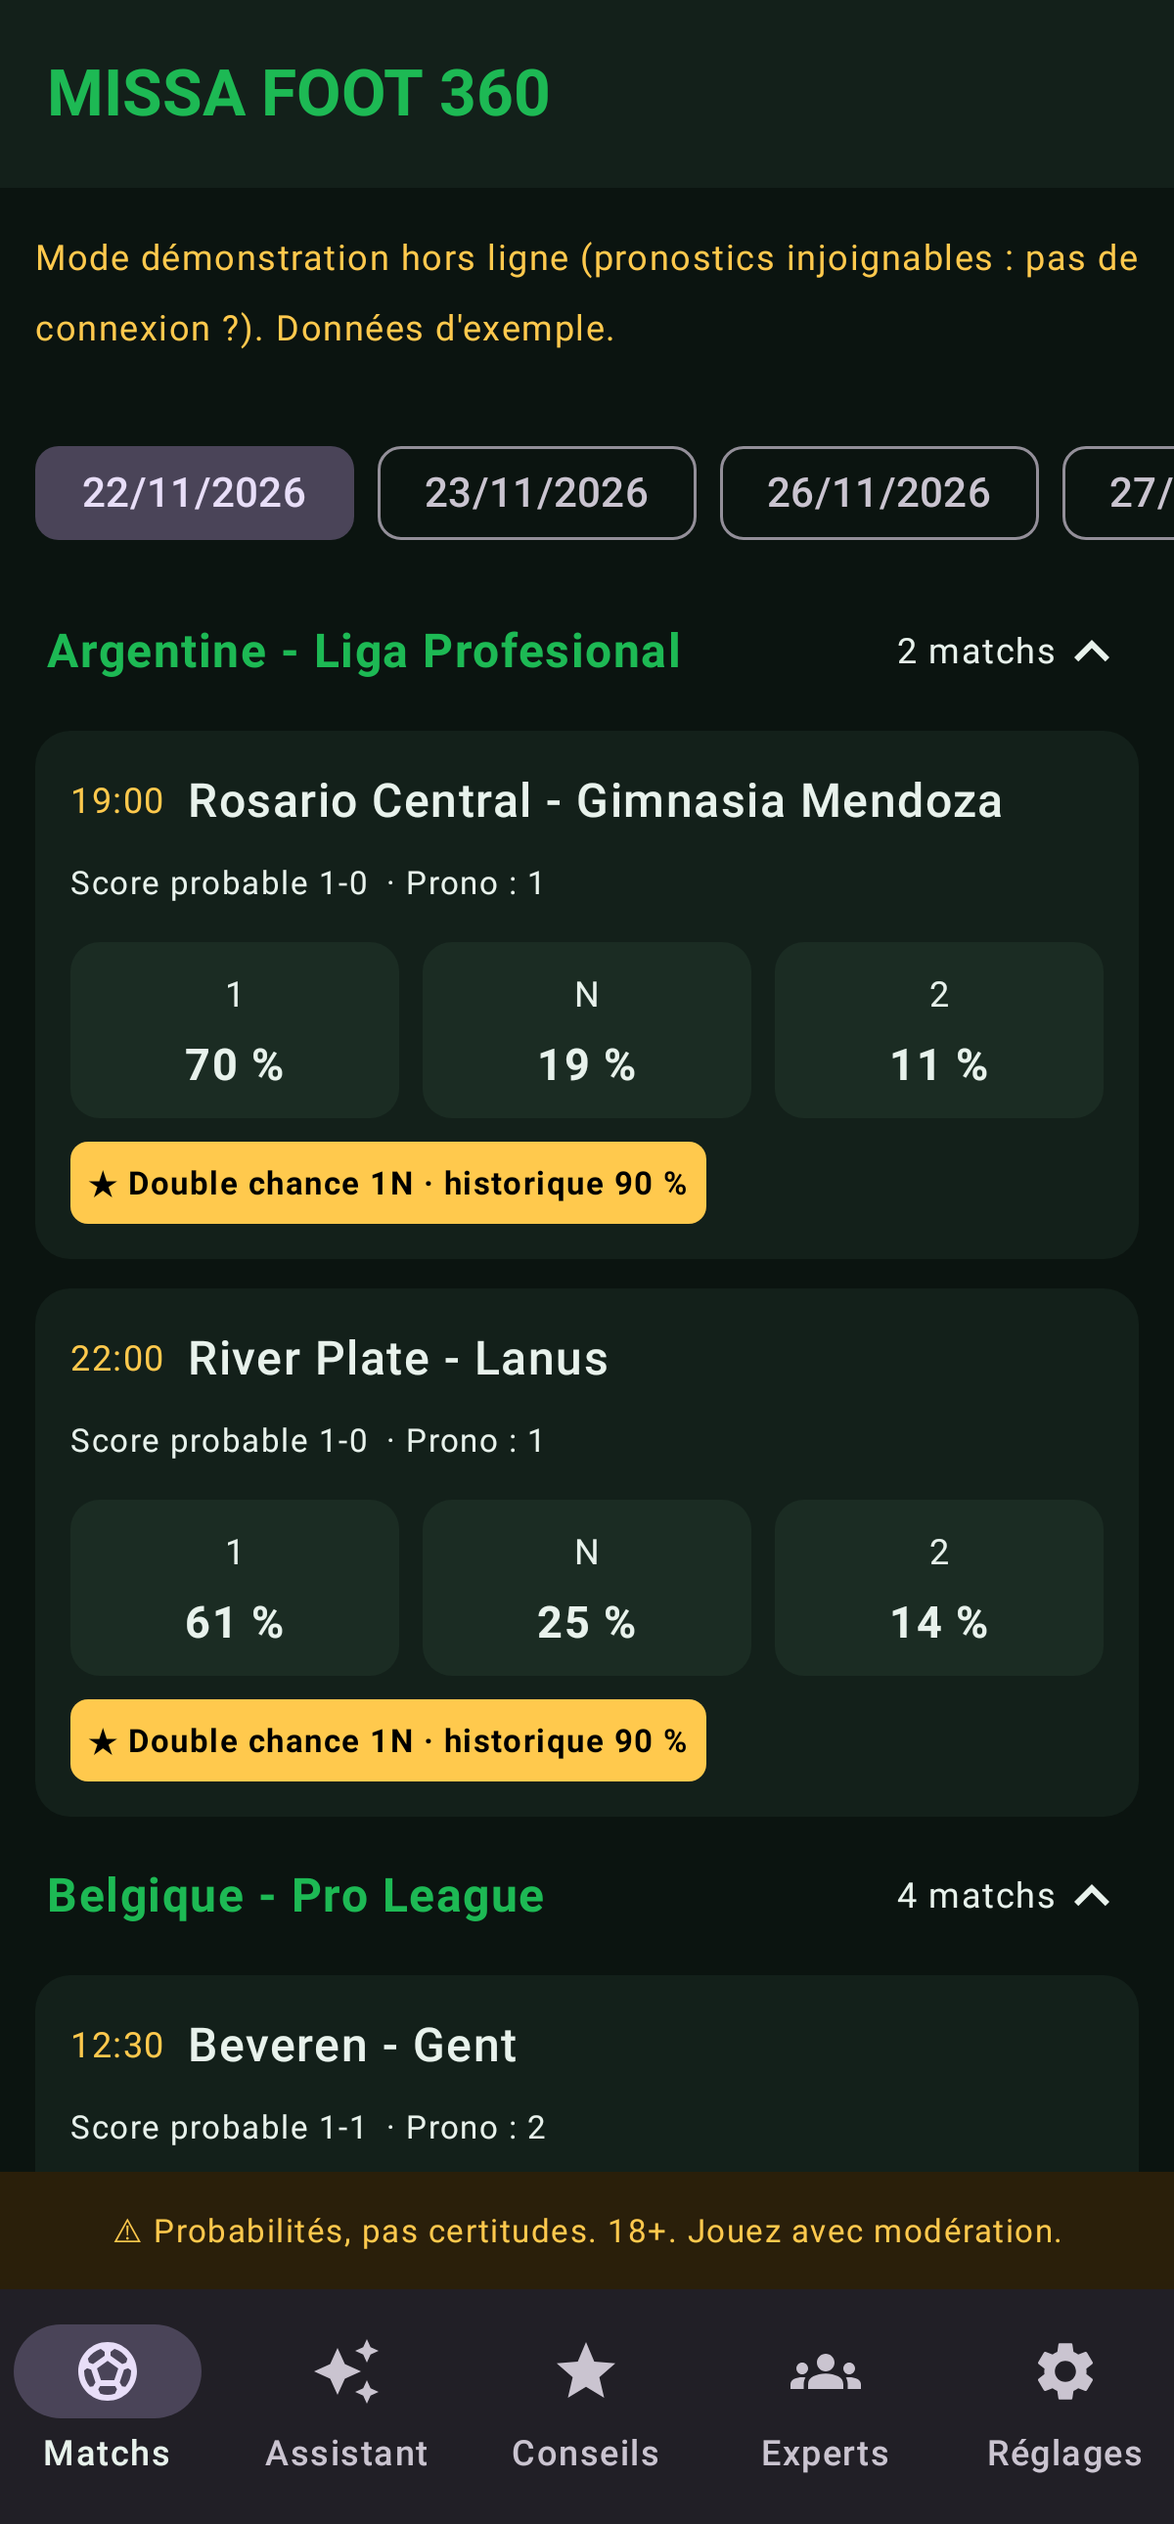
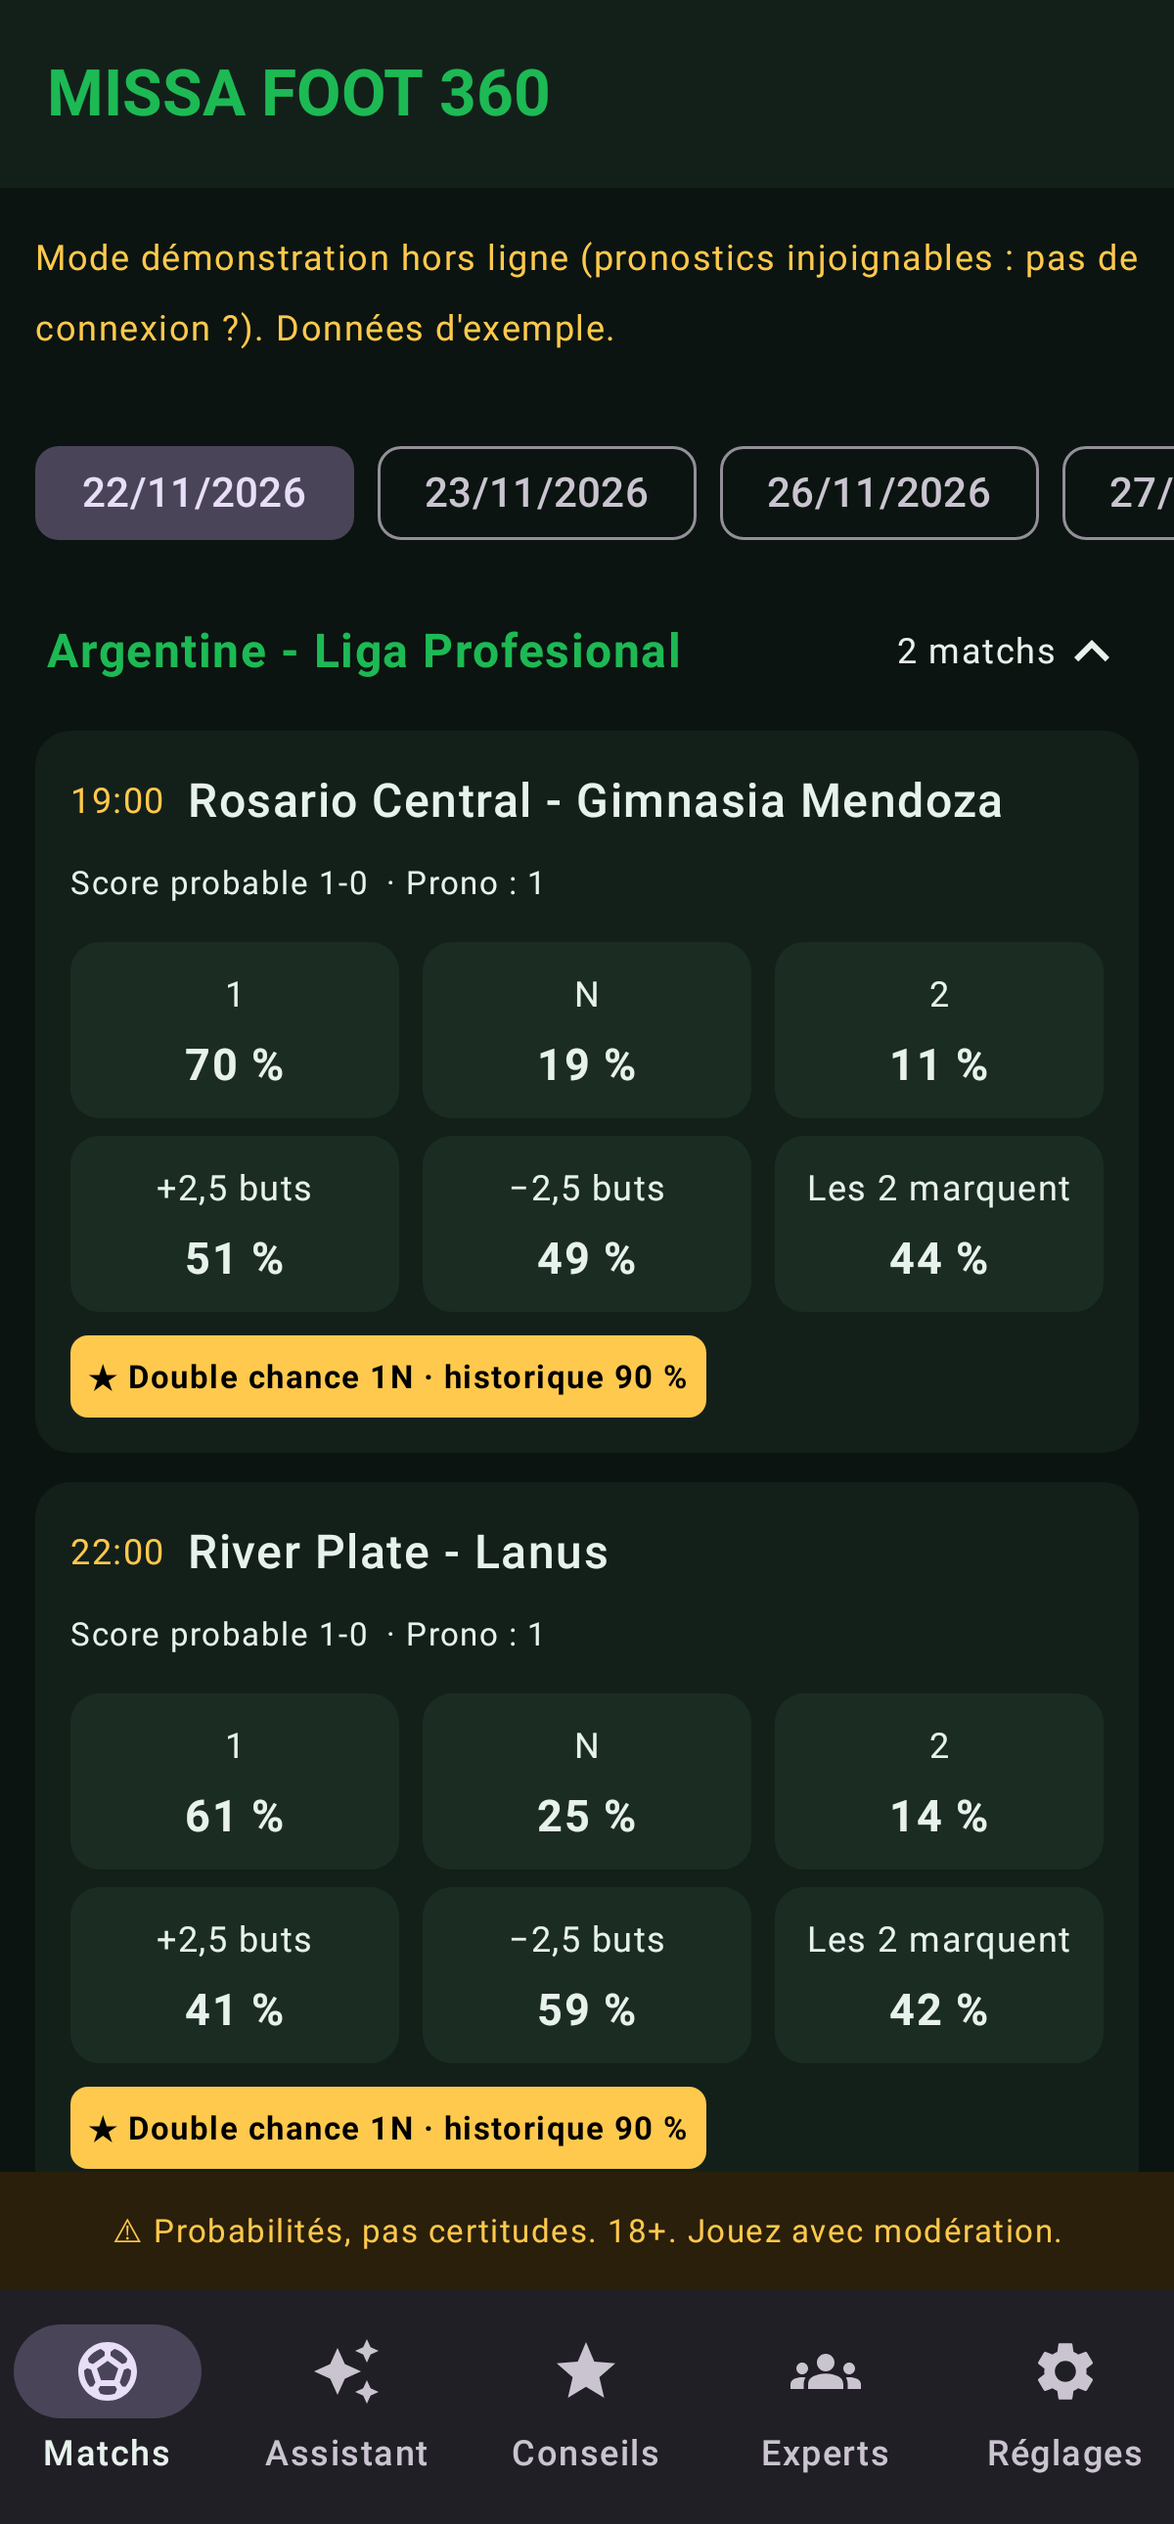
Ticket en temps réel : choix rapides (+2,5 / −2,5 / les 2 marquent) sur chaque match, cotes préremplies, mise et gains, résumé du ticket en haut
Claude-Session: https://claude.ai/code/session_01JzZ5bfRfBm6NJrwqaGBrNM

diff --git a/android/app/src/main/java/com/missa/foot360/ui/EcranCombi.kt b/android/app/src/main/java/com/missa/foot360/ui/EcranCombi.kt
@@ -48,7 +48,9 @@ fun BarreCombi(etat: EtatApp, ouvrir: () -> Unit) {
             Text((if (etat.unParMatch) "Ticket" else "Combiné libre") + " : ${etat.combi.size} sélection(s)", fontSize = 12.sp)
             if (r.proba == 0.0) Text("Sélections incompatibles (probabilité nulle)",
                 fontWeight = FontWeight.Bold, color = Rouge)
-            else Text("Probabilité ${pct(r.proba, 2)}  ·  cote juste ${cote(r.coteJuste)}",
+            else Text("Réussite ${pct(r.proba, 1)}  ·  " +
+                (r.coteBookmaker?.let { c -> "cote ${cote(c)}" + (etat.mise?.let { m -> " · gain ${montant(m * c * (1 + etat.bonus))}" } ?: "") }
+                    ?: "cote juste ${cote(r.coteJuste)}"),
                 fontWeight = FontWeight.Bold, color = Vert)
         }
         Text("Voir ›", color = Or)
@@ -61,12 +63,54 @@ fun EcranCombi(etat: EtatApp, vm: AppViewModel) {
     LazyColumn(contentPadding = PaddingValues(16.dp)) {
         item {
             Text(if (etat.unParMatch) "Mon ticket" else "Mon combiné (analyse libre)", fontSize = 20.sp, fontWeight = FontWeight.Bold)
-            Spacer(Modifier.height(4.dp))
-            Text("La probabilité est recalculée à chaque modification. Saisissez la cote de votre " +
-                "bookmaker pour voir la valeur du combiné.", fontSize = 12.sp)
-            Spacer(Modifier.height(12.dp))
+            Spacer(Modifier.height(8.dp))
         }
         if (etat.combi.isEmpty()) item { Text("Aucune sélection. Touchez un pronostic pour l'ajouter.") }
+        // --- Résumé en haut : visible immédiatement, mis à jour en temps réel ---
+        if (r != null) item {
+            Card(Modifier.fillMaxWidth()) {
+                Column(Modifier.padding(16.dp), verticalArrangement = Arrangement.spacedBy(6.dp)) {
+                    Row(verticalAlignment = Alignment.CenterVertically) {
+                        Text("Chances de réussite", Modifier.weight(1f), fontWeight = FontWeight.Bold)
+                        Text(pct(r.proba, 1), fontSize = 26.sp, fontWeight = FontWeight.Bold,
+                            color = if (r.proba >= 0.5) Vert else if (r.proba >= 0.2) Or else Rouge)
+                    }
+                    BarreProba(r.proba)
+                    Text("Sur 100 tickets identiques, environ ${"%.0f".format(r.proba * 100)} seraient gagnants.", fontSize = 12.sp)
+                    Ligne("Cote totale du ticket", cote(r.coteBookmaker))
+                    Ligne("Cote juste (équitable)", cote(r.coteJuste))
+                    val manquantes = etat.combi.count { it.cote == null }
+                    if (manquantes > 0) Text("$manquantes cote(s) à saisir pour calculer la cote totale et les gains.",
+                        fontSize = 12.sp, color = Or)
+                    var mise by remember { mutableStateOf(etat.mise?.let { "%.0f".format(it) } ?: "") }
+                    OutlinedTextField(
+                        value = mise, singleLine = true, modifier = Modifier.fillMaxWidth(),
+                        label = { Text("Mise") },
+                        keyboardOptions = KeyboardOptions(keyboardType = KeyboardType.Decimal),
+                        onValueChange = { mise = it; vm.modifierMise(it.replace(',', '.').toDoubleOrNull()) },
+                    )
+                    val m = etat.mise
+                    if (m != null && r.coteBookmaker != null) {
+                        val gain = m * r.coteBookmaker * (1 + etat.bonus)
+                        Ligne("Gain potentiel (si gagné)", montant(gain), Vert)
+                        Ligne("Gain moyen attendu", (if (gain * r.proba - m >= 0) "+" else "") + montant(gain * r.proba - m),
+                            if (gain * r.proba - m >= 0) Vert else Rouge)
+                    }
+                    r.valeurAttendue?.let { Ligne("Valeur du ticket", signe(it), if (it > 0) Vert else Rouge) }
+                    if (r.proba < 0.05 && r.proba > 0) Text("Ticket très improbable (moins de 1 chance sur 20).",
+                        fontSize = 12.sp, color = Rouge)
+                    if (r.proba == 0.0) Text("Sélections incompatibles entre elles.", fontSize = 12.sp, color = Rouge)
+                    if (r.valeurAttendue != null && r.valeurAttendue < 0) Text("Valeur négative : à long terme, " +
+                        "ce type de ticket fait perdre de l'argent.", fontSize = 12.sp, color = Rouge)
+                    if (r.memeMatch) Text("Analyse libre : plusieurs sélections sur un même match (corrélation prise " +
+                        "en compte). Ce ticket ne serait PAS accepté tel quel par un bookmaker.", fontSize = 12.sp, color = Rouge)
+                }
+            }
+            Spacer(Modifier.height(8.dp))
+            Text("Sélections (${etat.combi.size} / ${com.missa.foot360.moteur.RegleTicket.MAX_SELECTIONS}) — cotes préremplies " +
+                "avec la meilleure cote du marché quand elle est connue : remplacez-les par celles de votre bookmaker.",
+                fontSize = 12.sp)
+        }
         itemsIndexed(etat.combi) { i, s ->
             Card(Modifier.fillMaxWidth().padding(vertical = 4.dp)) {
                 Row(Modifier.padding(10.dp), verticalAlignment = Alignment.CenterVertically) {
@@ -74,7 +118,8 @@ fun EcranCombi(etat: EtatApp, vm: AppViewModel) {
                         Text(s.libelleMatch, fontSize = 12.sp)
                         Text(s.libelle, fontWeight = FontWeight.Bold)
                         val p = vm.proba(s.matchId, s.code)
-                        Text("Probabilité seule : ${pct(p)}", fontSize = 12.sp, color = Vert)
+                        Text("Probabilité seule : ${pct(p)} · cote juste ${cote(p?.let { if (it > 0) 1 / it else null })}",
+                            fontSize = 12.sp, color = Vert)
                     }
                     var texte by remember(s.matchId, s.code) { mutableStateOf(s.cote?.let { cote(it) } ?: "") }
                     OutlinedTextField(
@@ -91,49 +136,31 @@ fun EcranCombi(etat: EtatApp, vm: AppViewModel) {
             }
         }
         if (r != null) item {
-            Spacer(Modifier.height(12.dp))
+            Spacer(Modifier.height(8.dp))
             var bonus by remember { mutableStateOf(if (etat.bonus > 0) "%.0f".format(etat.bonus * 100) else "") }
             OutlinedTextField(
                 value = bonus, singleLine = true, modifier = Modifier.fillMaxWidth(),
-                label = { Text("Bonus de gains du bookmaker sur ce combiné (%)") },
+                label = { Text("Bonus de gains du bookmaker sur ce ticket (%)") },
                 keyboardOptions = KeyboardOptions(keyboardType = KeyboardType.Decimal),
                 onValueChange = {
                     bonus = it
                     vm.modifierBonus((it.replace(',', '.').toDoubleOrNull() ?: 0.0) / 100)
                 },
             )
-            Spacer(Modifier.height(12.dp))
-            Card(Modifier.fillMaxWidth()) {
-                Column(Modifier.padding(16.dp), verticalArrangement = Arrangement.spacedBy(6.dp)) {
-                    Ligne("Probabilité du combiné", pct(r.proba, 2), Vert)
-                    Ligne("Cote juste (équitable)", cote(r.coteJuste))
-                    Ligne("Cote du bookmaker", cote(r.coteBookmaker))
-                    if (etat.bonus > 0) Ligne("Bonus inclus", "+${"%.0f".format(etat.bonus * 100)} %")
-                    if (r.probaParMatch.size > 1) r.probaParMatch.forEach { (id, p) ->
-                        val mm = etat.matchs[id]
-                        Ligne("  ${mm?.domicile ?: id} - ${mm?.exterieur ?: ""}", pct(p))
-                    }
-                    r.valeurAttendue?.let {
-                        Ligne("Valeur attendue", signe(it), if (it > 0) Vert else Rouge)
-                    }
-                    Text("Sur 100 combinés identiques, environ ${"%.0f".format(r.proba * 100)} seraient gagnants.",
-                        fontSize = 12.sp)
-                    if (r.memeMatch) Text("Analyse libre : plusieurs sélections sur un même match (corrélation prise " +
-                        "en compte). Ce ticket ne serait PAS accepté tel quel par un bookmaker.", fontSize = 12.sp, color = Rouge)
-                    val hors = com.missa.foot360.moteur.RegleTicket.horsBonus(etat.combi) { j ->
-                        vm.proba(j.matchId, j.code)?.let { if (it > 0) 1 / it else null } }
-                    if (hors.isNotEmpty()) Text("${hors.size} sélection(s) à moins de 1,10 : en général non prise(s) en " +
-                        "compte pour le bonus de gains.", fontSize = 12.sp, color = Or)
-                    Text("${etat.combi.size} / ${com.missa.foot360.moteur.RegleTicket.MAX_SELECTIONS} sélections.", fontSize = 11.sp)
-                    if (r.proba < 0.05 && r.proba > 0) Text("Combiné très improbable (moins de 1 chance sur 20).",
-                        fontSize = 12.sp, color = Rouge)
-                    if (r.proba == 0.0) Text("Sélections incompatibles entre elles.", fontSize = 12.sp, color = Rouge)
-                    if (r.valeurAttendue != null && r.valeurAttendue < 0) Text("Valeur négative : à long terme, " +
-                        "ce type de combiné fait perdre de l'argent.", fontSize = 12.sp, color = Rouge)
+            val hors = com.missa.foot360.moteur.RegleTicket.horsBonus(etat.combi) { j ->
+                vm.proba(j.matchId, j.code)?.let { if (it > 0) 1 / it else null } }
+            if (hors.isNotEmpty()) Text("${hors.size} sélection(s) à moins de 1,10 : en général non prise(s) en " +
+                "compte pour le bonus de gains.", fontSize = 12.sp, color = Or)
+            if (r.probaParMatch.size > 1) {
+                Spacer(Modifier.height(8.dp))
+                Text("Détail par match", fontWeight = FontWeight.Bold)
+                r.probaParMatch.forEach { (id, p) ->
+                    val mm = etat.matchs[id]
+                    Ligne("${mm?.domicile ?: id} - ${mm?.exterieur ?: ""}", pct(p))
                 }
             }
             Spacer(Modifier.height(12.dp))
-            Button(onClick = { vm.vider() }, modifier = Modifier.fillMaxWidth()) { Text("Vider le combiné") }
+            Button(onClick = { vm.vider() }, modifier = Modifier.fillMaxWidth()) { Text("Vider le ticket") }
         }
     }
 }

diff --git a/android/app/src/test/java/com/missa/foot360/CapturesEcransTest.kt b/android/app/src/test/java/com/missa/foot360/CapturesEcransTest.kt
@@ -7,6 +7,11 @@ import androidx.compose.ui.test.onNodeWithText
 import androidx.compose.ui.test.onAllNodesWithText
 import androidx.compose.ui.test.performClick
 import androidx.compose.ui.test.performScrollTo
+import androidx.compose.ui.test.performTextInput
+import androidx.compose.ui.test.hasScrollToIndexAction
+import androidx.compose.ui.test.performScrollToIndex
+import androidx.compose.ui.test.performTouchInput
+import androidx.compose.ui.test.swipeUp
 import androidx.compose.ui.test.onRoot
 import androidx.test.core.app.ApplicationProvider
 import androidx.test.ext.junit.runners.AndroidJUnit4
@@ -43,8 +48,23 @@ class CapturesEcransTest {
         ActivityScenario.launch(MainActivity::class.java)
         attendreDonnees()
         regle.onRoot().captureRoboImage("../../docs/captures/1_matchs.png")
+        // Scénario : « 1 » sur le 1er match, « 2 » sur le 2e, « +2,5 buts » sur le 3e
         regle.onAllNodesWithText("1", useUnmergedTree = true)[0].performClick()
-        regle.onAllNodesWithText("N", useUnmergedTree = true)[1].performClick()
+        regle.onAllNodesWithText("2", useUnmergedTree = true)[1].performClick()
+        regle.onAllNodes(hasScrollToIndexAction())[0].performScrollToIndex(6)
+        regle.waitForIdle()
+        regle.waitForIdle()
+        regle.onAllNodesWithText("+2,5 buts", useUnmergedTree = true)[0].performClick()
+        regle.waitForIdle()
+        regle.onAllNodes(hasScrollToIndexAction())[0].performScrollToIndex(0)
+        regle.waitForIdle()
+        regle.onRoot().captureRoboImage("../../docs/captures/10_scenario_liste.png")
+        regle.onNodeWithText("Voir ›").performClick()
+        regle.waitForIdle()
+        regle.onNodeWithText("Mise").performScrollTo().performTextInput("1000")
+        regle.waitForIdle()
+        regle.onRoot().captureRoboImage("../../docs/captures/11_scenario_ticket.png")
+        regle.onNodeWithText("Matchs").performClick()
         regle.waitForIdle()
         regle.onAllNodesWithText(" - ", substring = true, useUnmergedTree = true).fetchSemanticsNodes().let { }
         regle.onAllNodesWithText("Score probable", substring = true, useUnmergedTree = true)[0].performClick()

diff --git a/android/app/src/main/java/com/missa/foot360/ui/AppViewModel.kt b/android/app/src/main/java/com/missa/foot360/ui/AppViewModel.kt
@@ -32,6 +32,7 @@ data class EtatApp(
     val modulations: Map<String, Modulation> = emptyMap(),
     val bonus: Double = 0.0,
     val unParMatch: Boolean = true,
+    val mise: Double? = null,
     val message: String? = null,
 ) {
     val matchs: Map<String, Match> by lazy {
@@ -111,10 +112,24 @@ class AppViewModel(app: Application) : AndroidViewModel(app) {
         _etat.value.combi.any { it.matchId == matchId && it.code == code }
 
     /** Ajoute ou retire une sélection en respectant les règles du ticket ; recalcul immédiat. */
+    /** Meilleure cote du marché connue pour ce code (1X2 et plus/moins 2,5), sinon null. */
+    private fun coteMarche(match: Match, code: String): Double? {
+        val ancien = when {
+            code.startsWith("1X2:") && "@" !in code -> code.removePrefix("1X2:")
+            code == "OU:2.5:plus" -> "plus_2.5"
+            code == "OU:2.5:moins" -> "moins_2.5"
+            else -> return null
+        }
+        return match.marches[ancien]?.meilleure_cote
+    }
+
+    fun modifierMise(m: Double?) = _etat.update { it.copy(mise = m?.takeIf { v -> v > 0 }) }
+
     fun basculer(match: Match, code: String, libelle: String, cote: Double? = null) {
         _etat.update { e ->
             val r = RegleTicket.basculer(e.combi,
-                JambeCombine(match.id, code, "${match.domicile} - ${match.exterieur}", libelle, cote), e.unParMatch)
+                JambeCombine(match.id, code, "${match.domicile} - ${match.exterieur}", libelle,
+                    cote ?: coteMarche(match, code)), e.unParMatch)
             e.copy(combi = r.ticket, message = r.message)
         }
         recalculer()

diff --git a/android/app/src/main/java/com/missa/foot360/ui/EcranMatchs.kt b/android/app/src/main/java/com/missa/foot360/ui/EcranMatchs.kt
@@ -127,6 +127,15 @@ fun CarteMatch(m: Match, vm: AppViewModel, etat: EtatApp, ouvrir: () -> Unit) {
                         Modifier.weight(1f)) { vm.basculer(m, code, "1X2 : $c") }
                 }
             }
+            Spacer(Modifier.height(6.dp))
+            Row(horizontalArrangement = Arrangement.spacedBy(8.dp)) {
+                listOf(Triple("OU:2.5:plus", "+2,5 buts", "Plus / moins (match) : Plus de 2,5"),
+                       Triple("OU:2.5:moins", "−2,5 buts", "Plus / moins (match) : Moins de 2,5"),
+                       Triple("BTTS:oui", "Les 2 marquent", "Les deux équipes marquent : Oui")).forEach { (code, court, long) ->
+                    BoutonSelection(court, vm.proba(m.id, code), etat.combi.any { it.matchId == m.id && it.code == code },
+                        Modifier.weight(1f)) { vm.basculer(m, code, long) }
+                }
+            }
             val sure = m.selection_haute_confiance
             if (sure != null || m.selections_value.isNotEmpty() || m.pronostiqueurs.isNotEmpty()) {
                 Spacer(Modifier.height(8.dp))

diff --git a/android/app/src/main/java/com/missa/foot360/ui/Composants.kt b/android/app/src/main/java/com/missa/foot360/ui/Composants.kt
@@ -43,6 +43,8 @@ fun pct(p: Double?, dec: Int = 1): String =
 
 fun cote(c: Double?): String = if (c == null) "—" else String.format(Locale.FRANCE, "%.2f", c)
 
+fun montant(v: Double): String = String.format(Locale.FRANCE, "%,.0f", v)
+
 fun signe(v: Double?): String = if (v == null) "—" else String.format(Locale.FRANCE, "%+.1f %%", v * 100)
 
 @Composable
